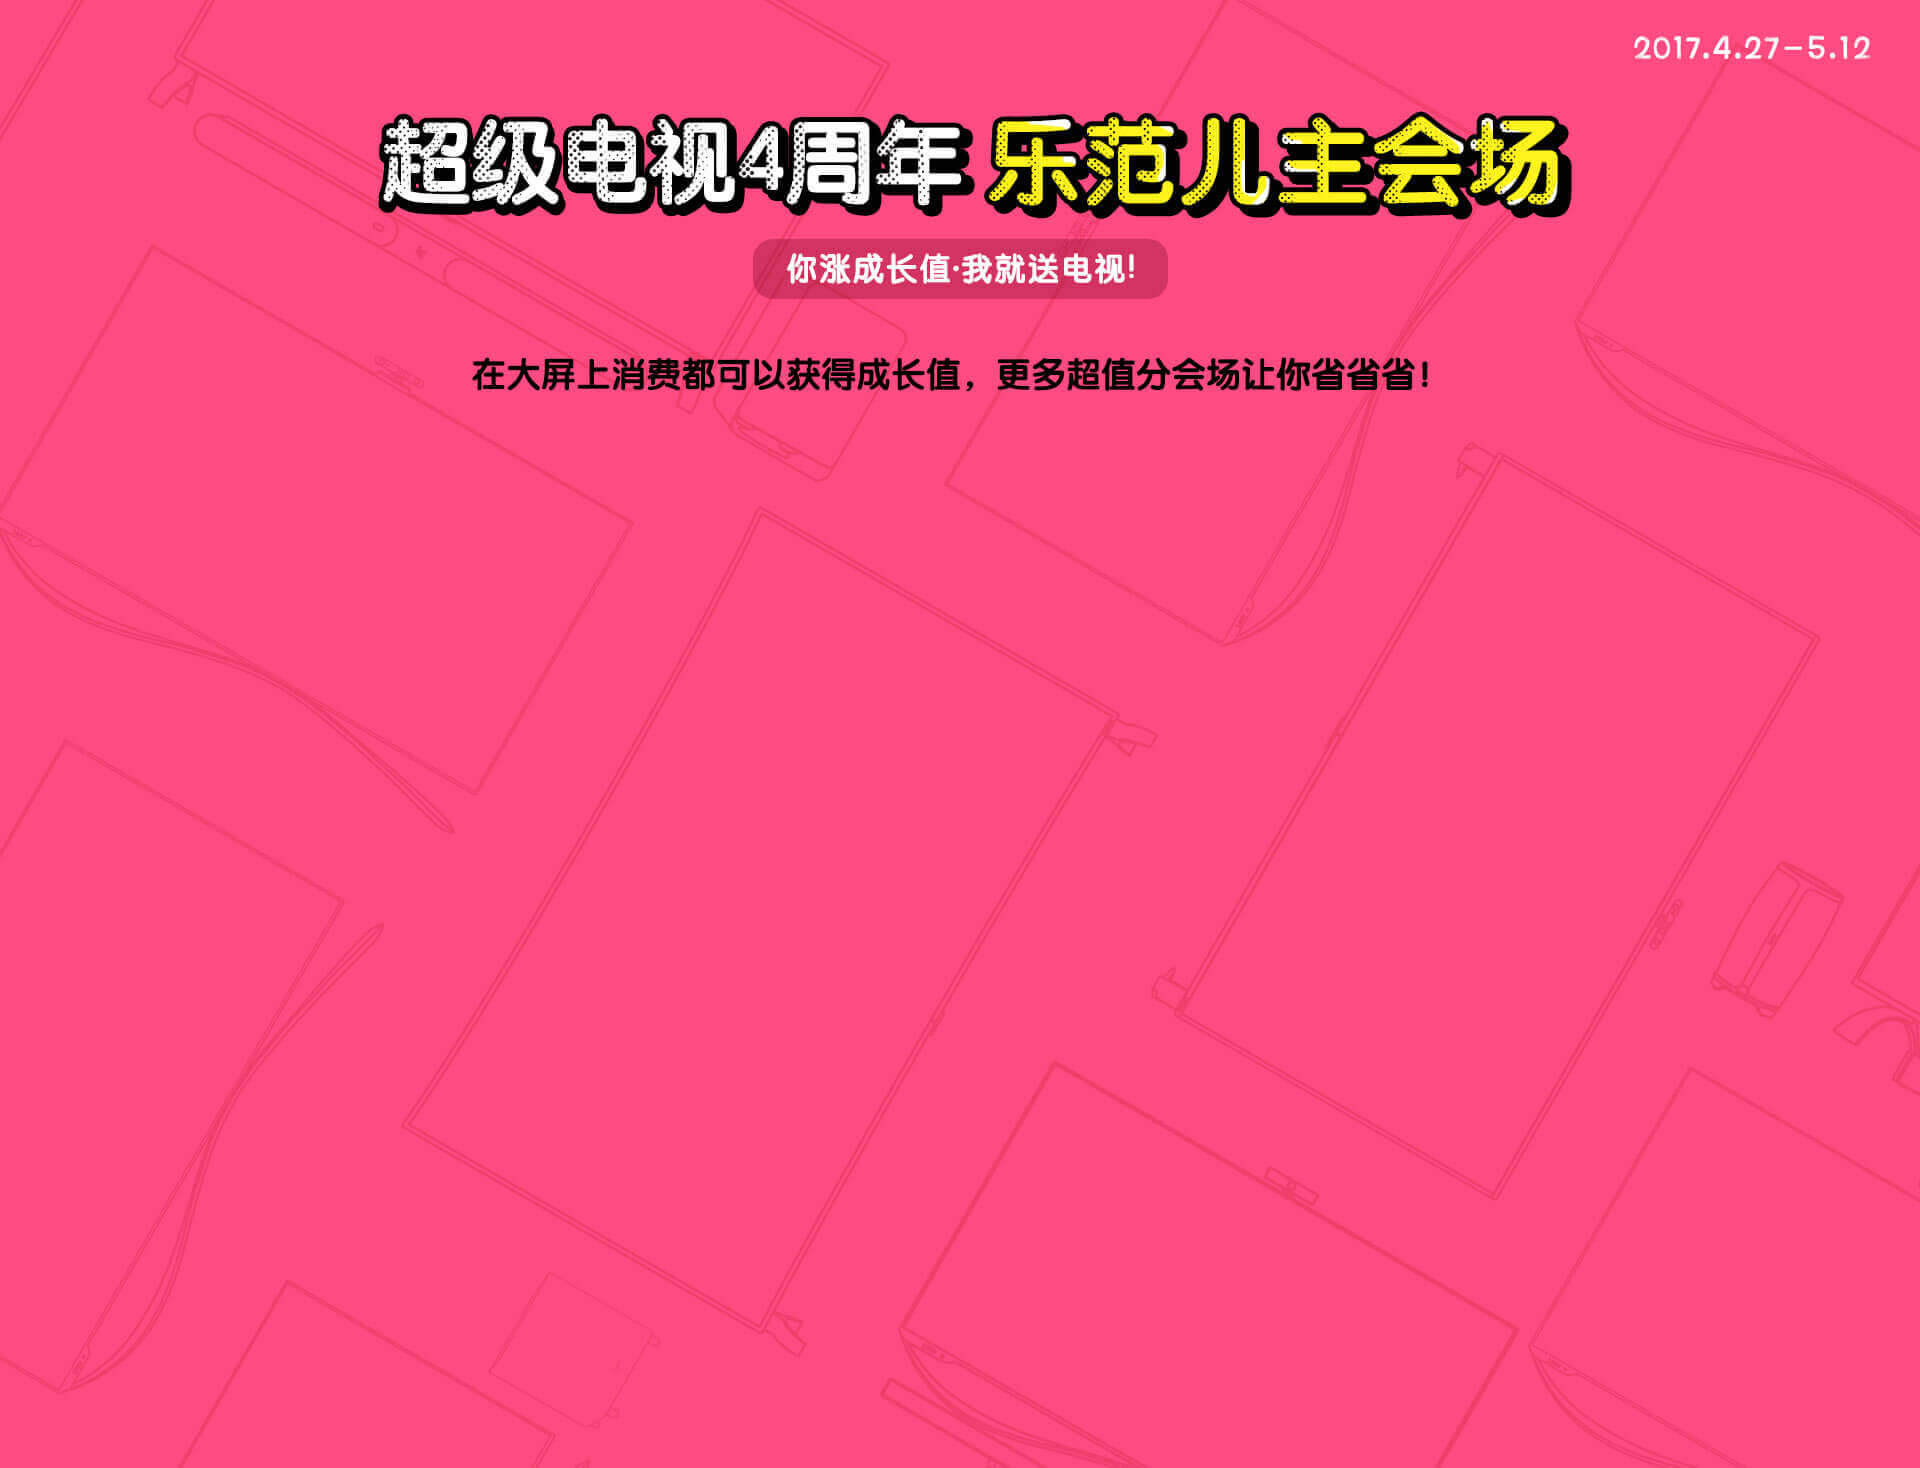
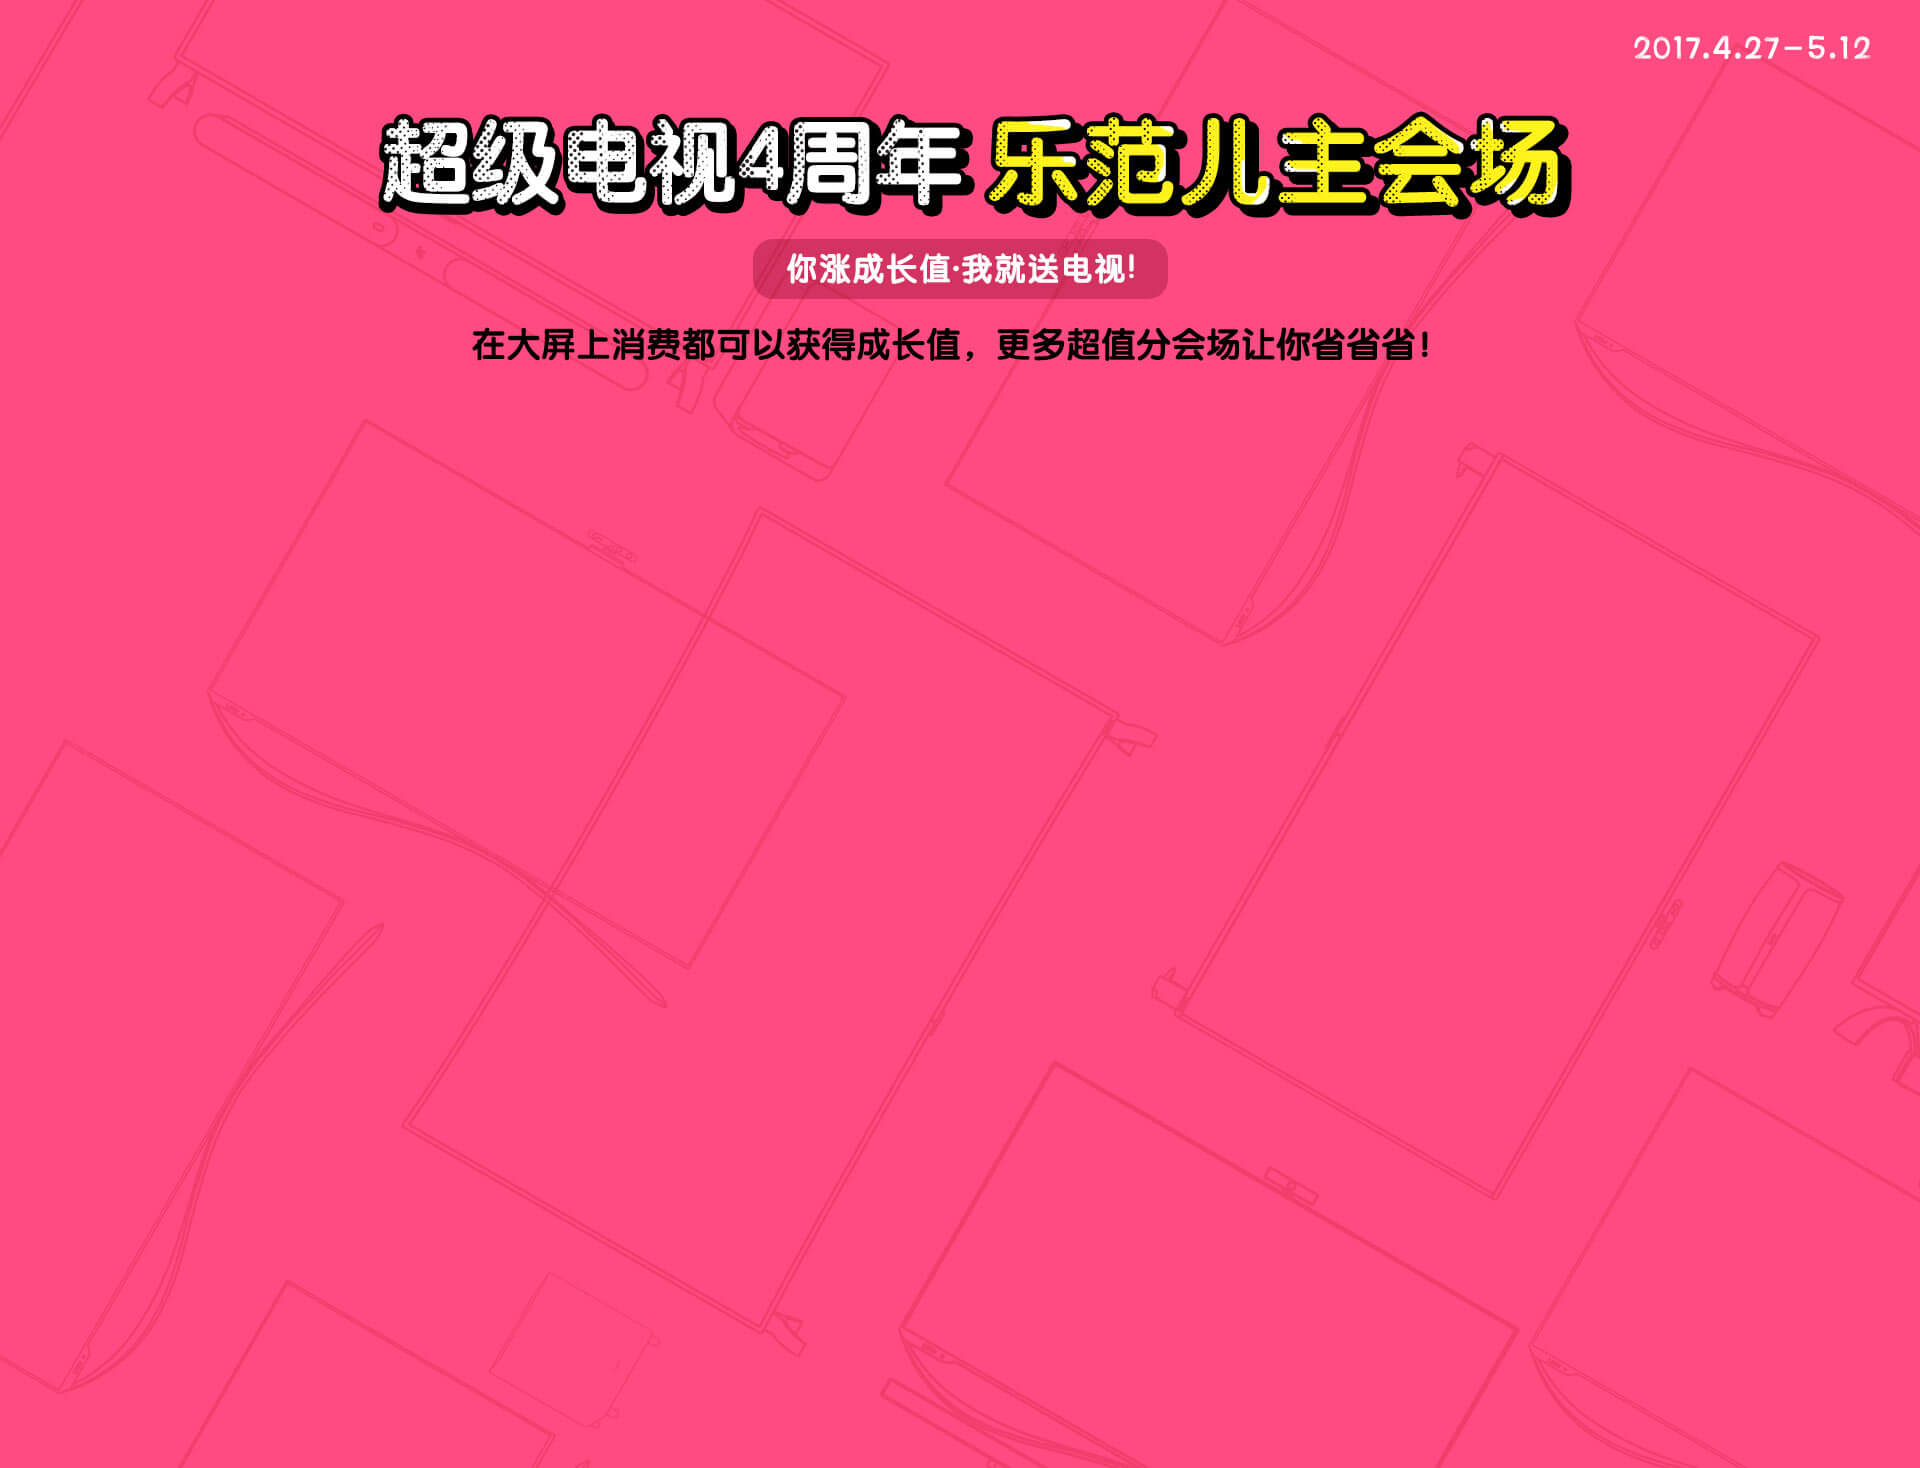
增加结构

Changed region(s): [[0.25, 0.2146, 0.75, 0.2759]]

diff --git a/app/css/tv/tv_4years.css b/app/css/tv/tv_4years.css
@@ -13,7 +13,7 @@ a{text-decoration:none;-webkit-tap-highlight-color: rgba(0,0,0,0);outline: 0;}
 .clearfix:after{content:"";display:block;height:0;clear:both;visibility:hidden}
 
 .F_wrap{background: url('http://i0.letvimg.com/lc04_iscms/201704/17/11/22/6ba12bf392d24d8b87ba41d6be15fab0.jpg') no-repeat center;background-size: cover;width: 100%;height: 100%;position: relative;}
-.F_second{background: url('http://i3.letvimg.com/lc07_iscms/201704/17/18/23/887c616b89284761bf81709d20991cb0.jpg') no-repeat center top;background-size: cover;width: 100%;height: 100%;position: relative;overflow: hidden;}
+.F_second{background: url('http://i3.letvimg.com/lc04_iscms/201704/18/18/05/22c84dd7abf445eb9c69f4ab6c2971f7.jpg') no-repeat center top;background-size: cover;width: 100%;height: 100%;position: relative;overflow: hidden;}
 
 .M_usrBx{color: #000;position: absolute;width: 20.5rem;right: 4.2%;top: 23%;}
 .M_usrBx .headimg{float: left;width: 4.3rem;}
@@ -46,8 +46,9 @@ a{text-decoration:none;-webkit-tap-highlight-color: rgba(0,0,0,0);outline: 0;}
 .M_myGift .e_gift_empty .p{color: #999;font-size: 1.4rem;line-height: 1.8;padding: 0 2rem;}
 .M_winning{border-radius: 2rem;-webkit-box-sizing: border-box;box-sizing: border-box;width: 55.8rem;height:2.6rem;line-height:2.6rem;color: #fff;position: relative;padding-left: 5.5rem;background: rgba(0, 0, 0, .2);font-size: 1.4rem;position: absolute;left: 4.7%;bottom: 12%;}
 .M_winning .cup{width: 4rem;height: 3.2rem;position: absolute;bottom: 0;left: 1rem;background: url(http://i0.letvimg.com/lc06_iscms/201704/17/11/22/af60e81d64ef478791a0995916f7c1f5.png) no-repeat center;background-size: contain;}
-.M_winning .winList{overflow: hidden;height: 2.6rem;}
+.M_winning .winList{overflow: hidden;height: 2.6rem;position: relative;}
 .M_winning .winList span{color: #fff03e;}
+.M_winning .winBox{position: absolute;height: 2.6rem;line-height: 2.6rem;left: 0;}
 .M_nextGift{position: absolute;bottom: 4rem;color: #fff;text-align: center;width: 100%;font-size: 1.6rem;}
 .M_arrw{position: absolute;text-align: center;width: 100%;}
 .M_arrw .scroll{display: inline-block;width: 3.6rem;height: 1.9rem;background: url(http://i3.letvimg.com/lc07_iscms/201704/17/15/15/462abd79a5604789b4b99114c83023b8.png) no-repeat center;background-size: contain;display: inline-block;}
@@ -55,7 +56,7 @@ a{text-decoration:none;-webkit-tap-highlight-color: rgba(0,0,0,0);outline: 0;}
 .F_second .M_arrw{top: 1.5rem;}
 .F_second .scroll{transform: rotate(180deg);}
 
-.venueList{width: 82rem;margin: 20.8rem auto 0;overflow: hidden;}
+.venueList{width: 82rem;padding:2.5rem 3rem;margin: 18.8rem auto 0;overflow: hidden;}
 .venueList .last{width: 26.4rem;height: 22.9rem;float: left;}
 .venueList .last img{width: 26.4rem;height: 22.9rem;}
 .venueList .M_venue:last-child{margin: 0;}
@@ -67,9 +68,12 @@ a{text-decoration:none;-webkit-tap-highlight-color: rgba(0,0,0,0);outline: 0;}
 .M_venue .title.orange{background: #ffa019;}
 .M_venue .title strong{padding-right: .4rem;}
 .M_venue .arw{border-top: 2px solid #fff;border-right: 2px solid #fff;transform: rotate(45deg);display: inline-block;height: .8rem;width: .8rem;margin-left: .4rem;}
+.M_venue.active,
+.venueList .last.active{-webkit-transform: scale(1.2);transform: scale(1.2);position: relative;z-index: 10;}
 
 .L_tips{background: rgba(0,0,0,.8);box-shadow: 0 0 .4rem rgba(0,0,0,.4);line-height:1.5;text-align: center;padding: .8rem 1rem;position: fixed;z-index: 110;left: 50%;top: 85%;-webkit-transform: translate(-50%,-15%);transform: translate(-50%,-15%);border-radius: .3rem;}
 .L_tips .t{font-size: 2rem;}
+.L_mask{position: fixed;background: rgba(0,0,0,.8);top: 0;bottom: 0;left: 0;right: 0;z-index: 99;}
 
 @-webkit-keyframes scroll_dw {
     0%{bottom:.8rem}

diff --git a/app/html/tv/4years/index.html b/app/html/tv/4years/index.html
@@ -57,8 +57,10 @@
     <div class="M_winning">
         <i class="cup"></i>
         <div class="winList">
-            <p>第1名：186****3323已完成阶段提升，累积XXX成长值，获得<span>超级电视uMax85</span></p>
-            <p>第2名：186****3323已完成阶段提升，累积XXX成长值，获得<span>超级电视uMax85</span></p>
+            <div class="winBox">
+                <p>第1名：186****3323已完成阶段提升，累积XXX成长值，获得<span>超级电视uMax85</span></p>
+                <p>第2名：186****3323已完成阶段提升，累积XXX成长值，获得<span>超级电视uMax85</span></p>
+            </div>
         </div>
     </div>
     <div class="M_nextGift">提升成长值将获得¥499康宁餐具</div>
